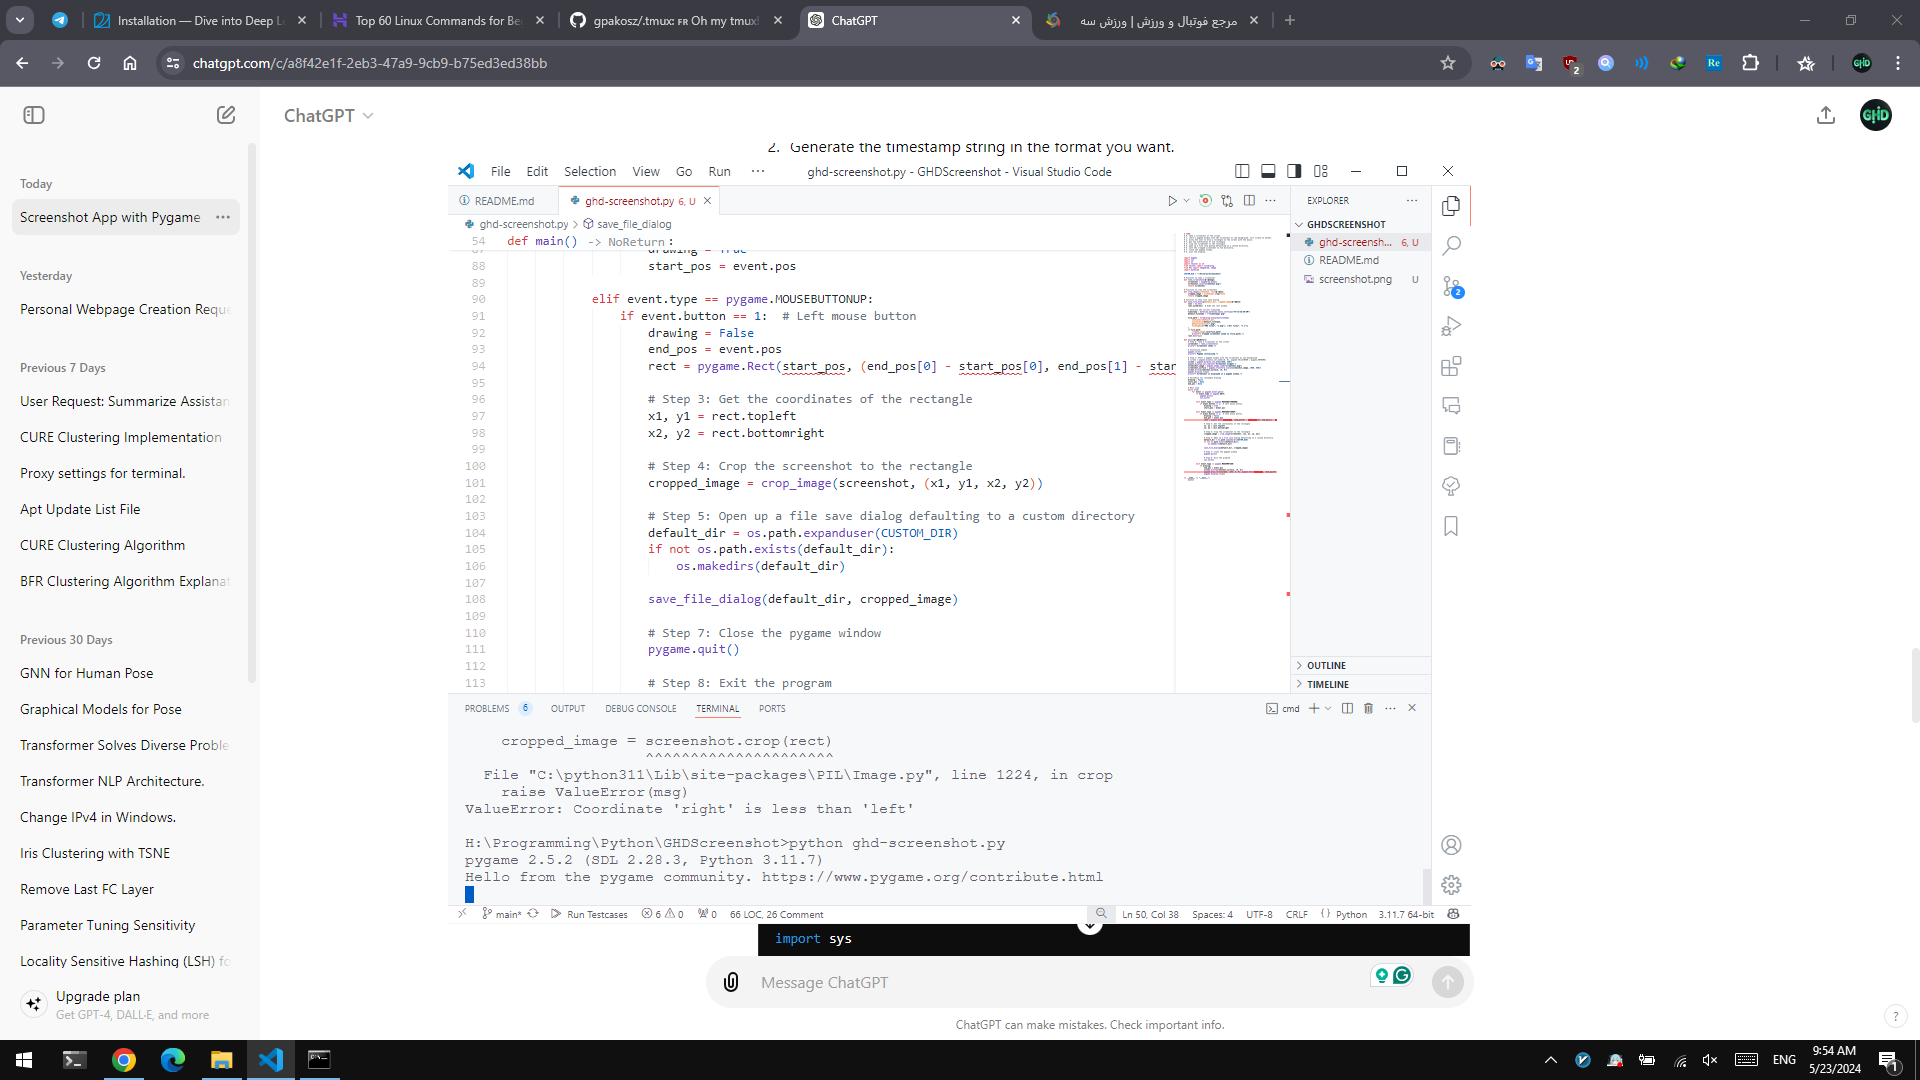
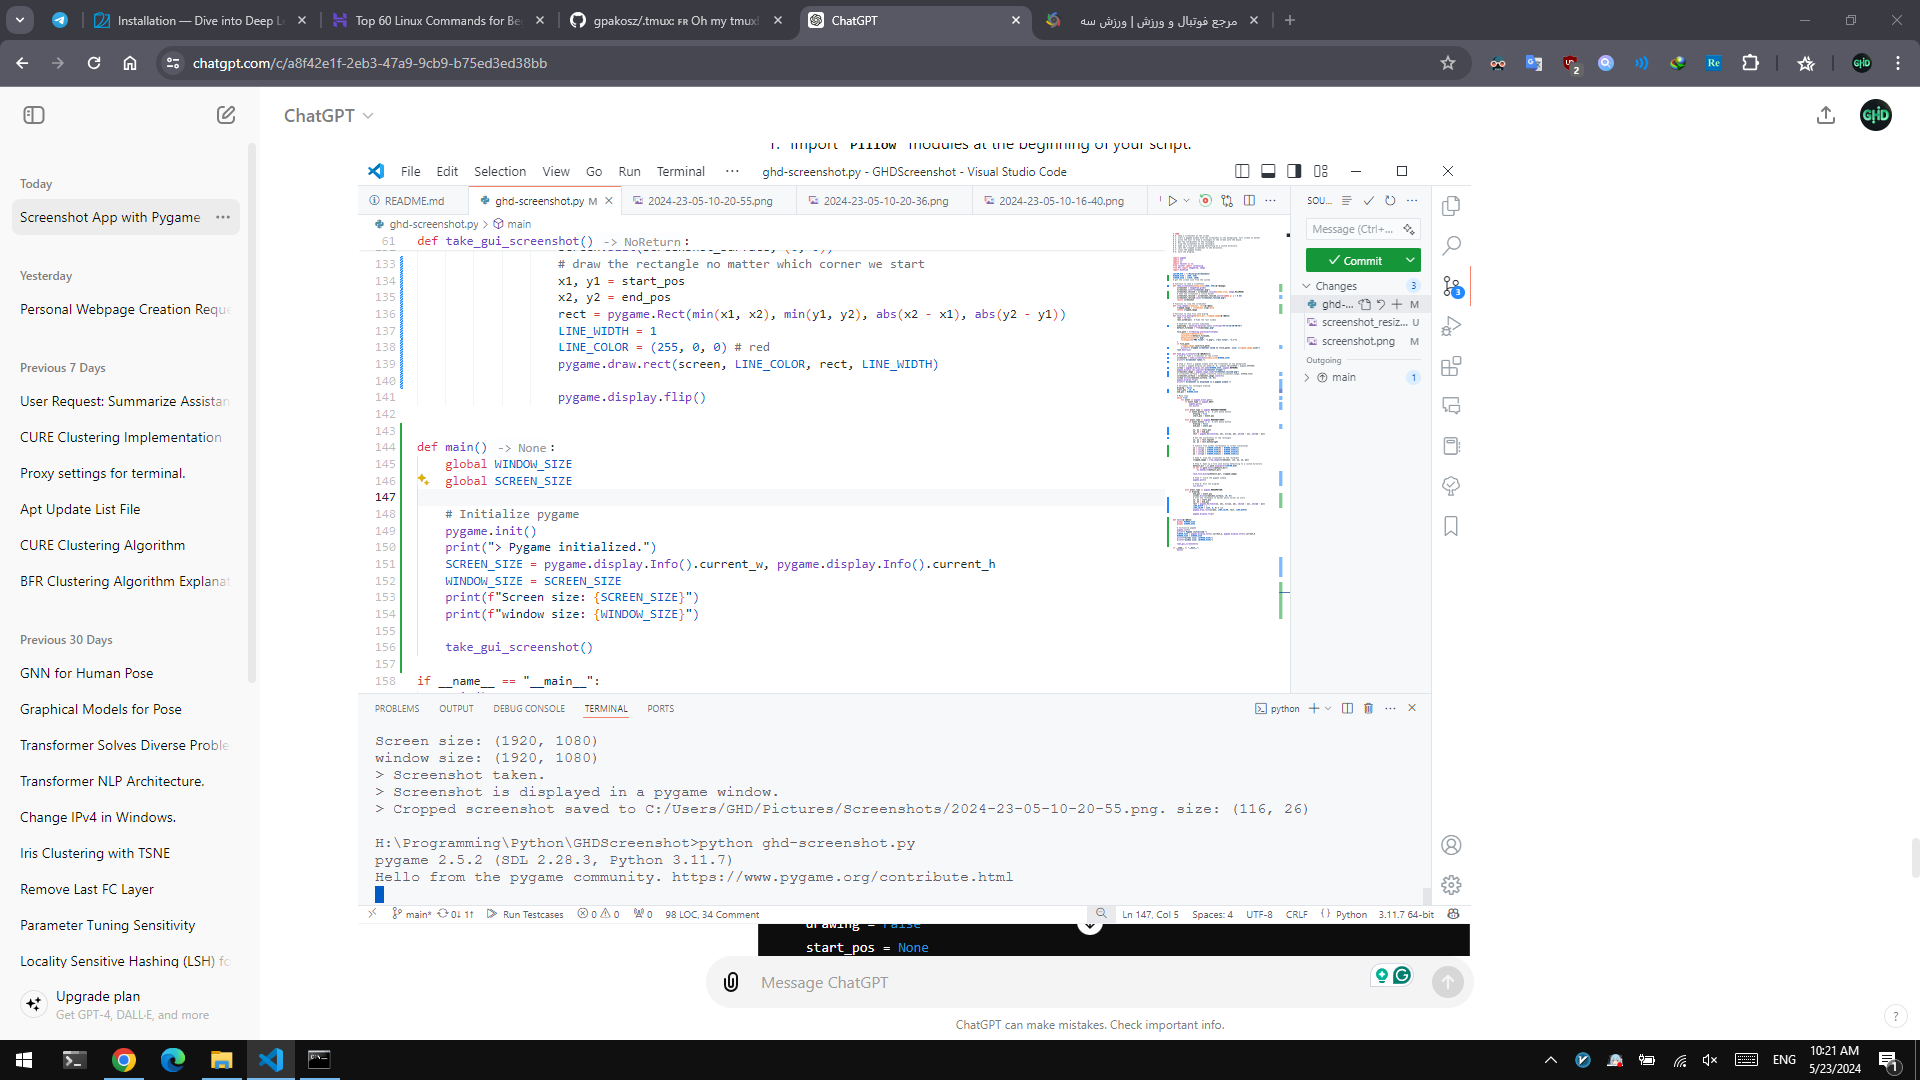
almost done

diff --git a/ghd-screenshot.py b/ghd-screenshot.py
@@ -19,11 +19,18 @@ from PIL import ImageGrab, Image
 import datetime
 
 CUSTOM_DIR = "~/Pictures/Screenshots"
+WINDOW_SIZE = (960, 540)
+SCREEN_SIZE = (1920, 1080)
+# get the screen size from the system
 
 # Function to take a screenshot
-def take_screenshot():
+def take_screenshot(window_size=(960, 540)):
     screenshot = ImageGrab.grab()
     screenshot.save("screenshot.png")
+    screenshot_resized = screenshot.resize(window_size, Image.BILINEAR)
+    # make the screenshot a little darker
+    screenshot_resized = screenshot_resized.point(lambda p: p * 0.85)
+    screenshot_resized.save("screenshot_resized.png")
     return screenshot
 
 # Function to crop the screenshot
@@ -37,7 +44,7 @@ def save_file_dialog(default_dir, cropped_image):
     root.withdraw()  # Hide the root window
 
     # Generate the current timestamp
-    timestamp = datetime.datetime.now().strftime("%Y-%d-%m-%H-%M")
+    timestamp = datetime.datetime.now().strftime("%Y-%d-%m-%H-%M-%S")
     default_filename = f"{timestamp}.png"
 
     file_path = filedialog.asksaveasfilename(
@@ -46,34 +53,32 @@ def save_file_dialog(default_dir, cropped_image):
         defaultextension=".png",
         filetypes=[("PNG files", "*.png"), ("All files", "*.*")]
     )
+
     if file_path:
         cropped_image.save(file_path)
-        print(f"> Cropped screenshot saved to {file_path}.")
+        print(f"> Cropped screenshot saved to {file_path}. size: {cropped_image.size}")
     root.destroy()
 
-def main():
+def take_gui_screenshot():
     # Step 0: Take a screenshot of the screen
-    screenshot = take_screenshot()
+    screenshot = take_screenshot(window_size=WINDOW_SIZE)
     print("> Screenshot taken.")
-    
-    # Initialize pygame
-    pygame.init()
-    print("> Pygame initialized.")
 
     # Step 1: Start a pygame window with the screenshot as the background
     # screen = pygame.display.set_mode((0, 0), pygame.FULLSCREEN | pygame.NOFRAME)
-    screen = pygame.display.set_mode((960, 540))
+    screen = pygame.display.set_mode(WINDOW_SIZE, pygame.NOFRAME)
     pygame.display.set_caption('Screenshot Cropper')
-    screenshot_image = pygame.image.load("screenshot.png")
-    screenshot_surface = pygame.transform.scale(screenshot_image, (960, 540))
+    screenshot_image = pygame.image.load("screenshot_resized.png")
+    # screenshot_surface = pygame.transform.scale(screenshot_image, WINDOW_SIZE)
+    screenshot_surface = screenshot_image.convert()
     screen.blit(screenshot_surface, (0, 0))
     pygame.display.flip()
     print("> Screenshot is displayed in a pygame window.")
 
     # Variables for rectangle drawing
     drawing = False
-    start_pos = None
-    end_pos = None
+    start_pos = (0, 0)
+    end_pos = WINDOW_SIZE
 
     # Main loop
     while True:
@@ -91,11 +96,20 @@ def main():
                 if event.button == 1:  # Left mouse button
                     drawing = False
                     end_pos = event.pos
-                    rect = pygame.Rect(start_pos, (end_pos[0] - start_pos[0], end_pos[1] - start_pos[1]))
 
-                    # Step 3: Get the coordinates of the rectangle
+                    x1, y1 = start_pos
+                    x2, y2 = end_pos
+                    rect = pygame.Rect(min(x1, x2), min(y1, y2), abs(x2 - x1), abs(y2 - y1))
+
+                    # Get the coordinates of the rectangle
                     x1, y1 = rect.topleft
                     x2, y2 = rect.bottomright
+
+                    # Convert from window coordinates to screen coordinates
+                    x1 = int(x1 * SCREEN_SIZE[0] / WINDOW_SIZE[0])
+                    y1 = int(y1 * SCREEN_SIZE[1] / WINDOW_SIZE[1])
+                    x2 = int(x2 * SCREEN_SIZE[0] / WINDOW_SIZE[0])
+                    y2 = int(y2 * SCREEN_SIZE[1] / WINDOW_SIZE[1])
 
                     # Step 4: Crop the screenshot to the rectangle
                     cropped_image = crop_image(screenshot, (x1, y1, x2, y2))
@@ -117,8 +131,30 @@ def main():
                 if drawing:
                     end_pos = event.pos
                     screen.blit(screenshot_surface, (0, 0))
-                    pygame.draw.rect(screen, (255, 0, 0), pygame.Rect(start_pos, (end_pos[0] - start_pos[0], end_pos[1] - start_pos[1])), 2)
+                    # draw the rectangle no matter which corner we start
+                    x1, y1 = start_pos
+                    x2, y2 = end_pos
+                    rect = pygame.Rect(min(x1, x2), min(y1, y2), abs(x2 - x1), abs(y2 - y1))
+                    LINE_WIDTH = 1
+                    LINE_COLOR = (255, 0, 0) # red
+                    pygame.draw.rect(screen, LINE_COLOR, rect, LINE_WIDTH)
+
                     pygame.display.flip()
+
+
+def main():
+    global WINDOW_SIZE
+    global SCREEN_SIZE
+
+    # Initialize pygame
+    pygame.init()
+    print("> Pygame initialized.")
+    SCREEN_SIZE = pygame.display.Info().current_w, pygame.display.Info().current_h
+    WINDOW_SIZE = SCREEN_SIZE
+    print(f"Screen size: {SCREEN_SIZE}")
+    print(f"window size: {WINDOW_SIZE}")
+
+    take_gui_screenshot()
 
 if __name__ == "__main__":
     main()
